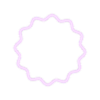
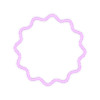
Syreen song: the ring wiggles while the first wave goes out
The ring and the wedge waves now start together; the ring wiggles for
420 ms, fading over its last three frames.

Claude-Session: https://claude.ai/code/session_017zhbowMT1FcEQenEBLRQA2

diff --git a/tools/make_art.py b/tools/make_art.py
@@ -514,8 +514,8 @@ def build_lasers(out):
 
 def build_song(out):
     """The Syreen song (original art; SC2 shows no song, only the crew it
-    lures): a small ring that wiggles round the Syreen, then rings that
-    ripple out from its nose, each rendered whole and then cropped to a
+    lures): a ring that wiggles round the Syreen while rings ripple out
+    from its nose, each rendered whole and then cropped to a
     wedge aimed at its target, and the green dots of crew
     floating across (misc.c draws an abandoning crewman as a green point).
     The wedges are cut facing north and north-east, on a canvas centred on
@@ -544,9 +544,9 @@ def build_song(out):
             wedge.putalpha(Image.fromarray((np.asarray(ring.getchannel("A"), np.float32)
                                             * np.asarray(mask, np.float32) / 255).round().astype(np.uint8)))
             save(wedge, out, f"images/projectiles/sc/song-{t + 1}-{facing}.png", False)
-    # ...and before them, the first ring wiggling round the Syreen without
-    # growing, then fading away
-    for t in range(6):
+    # ...and with them, a ring wiggling round the Syreen without growing,
+    # then fading away
+    for t in range(10):
         u = 3 / n  # the size of the third ring
         r = 10 + u * 76
         img = Image.new("RGBA", (size * 4, size * 4), (0, 0, 0, 0))
@@ -556,7 +556,7 @@ def build_song(out):
             a = math.radians(i)
             rr = (r + 2.2 * math.sin(12 * a + 6 * u + 1.3 * t)) * 4
             pts.append((size * 2 + rr * math.sin(a), size * 2 - rr * math.cos(a)))
-        alpha = round(230 * (1 - u) ** 0.7 * (1, 1, 1, 1, 0.6, 0.3)[t])
+        alpha = round(230 * (1 - u) ** 0.7 * (1, 1, 1, 1, 1, 1, 1, 0.75, 0.5, 0.25)[t])
         d.line(pts, fill=(230, 130, 255, alpha), width=10)
         d.line(pts, fill=(255, 220, 255, alpha), width=4)
         ring = img.resize((size, size), Image.LANCZOS).filter(ImageFilter.GaussianBlur(0.5))
